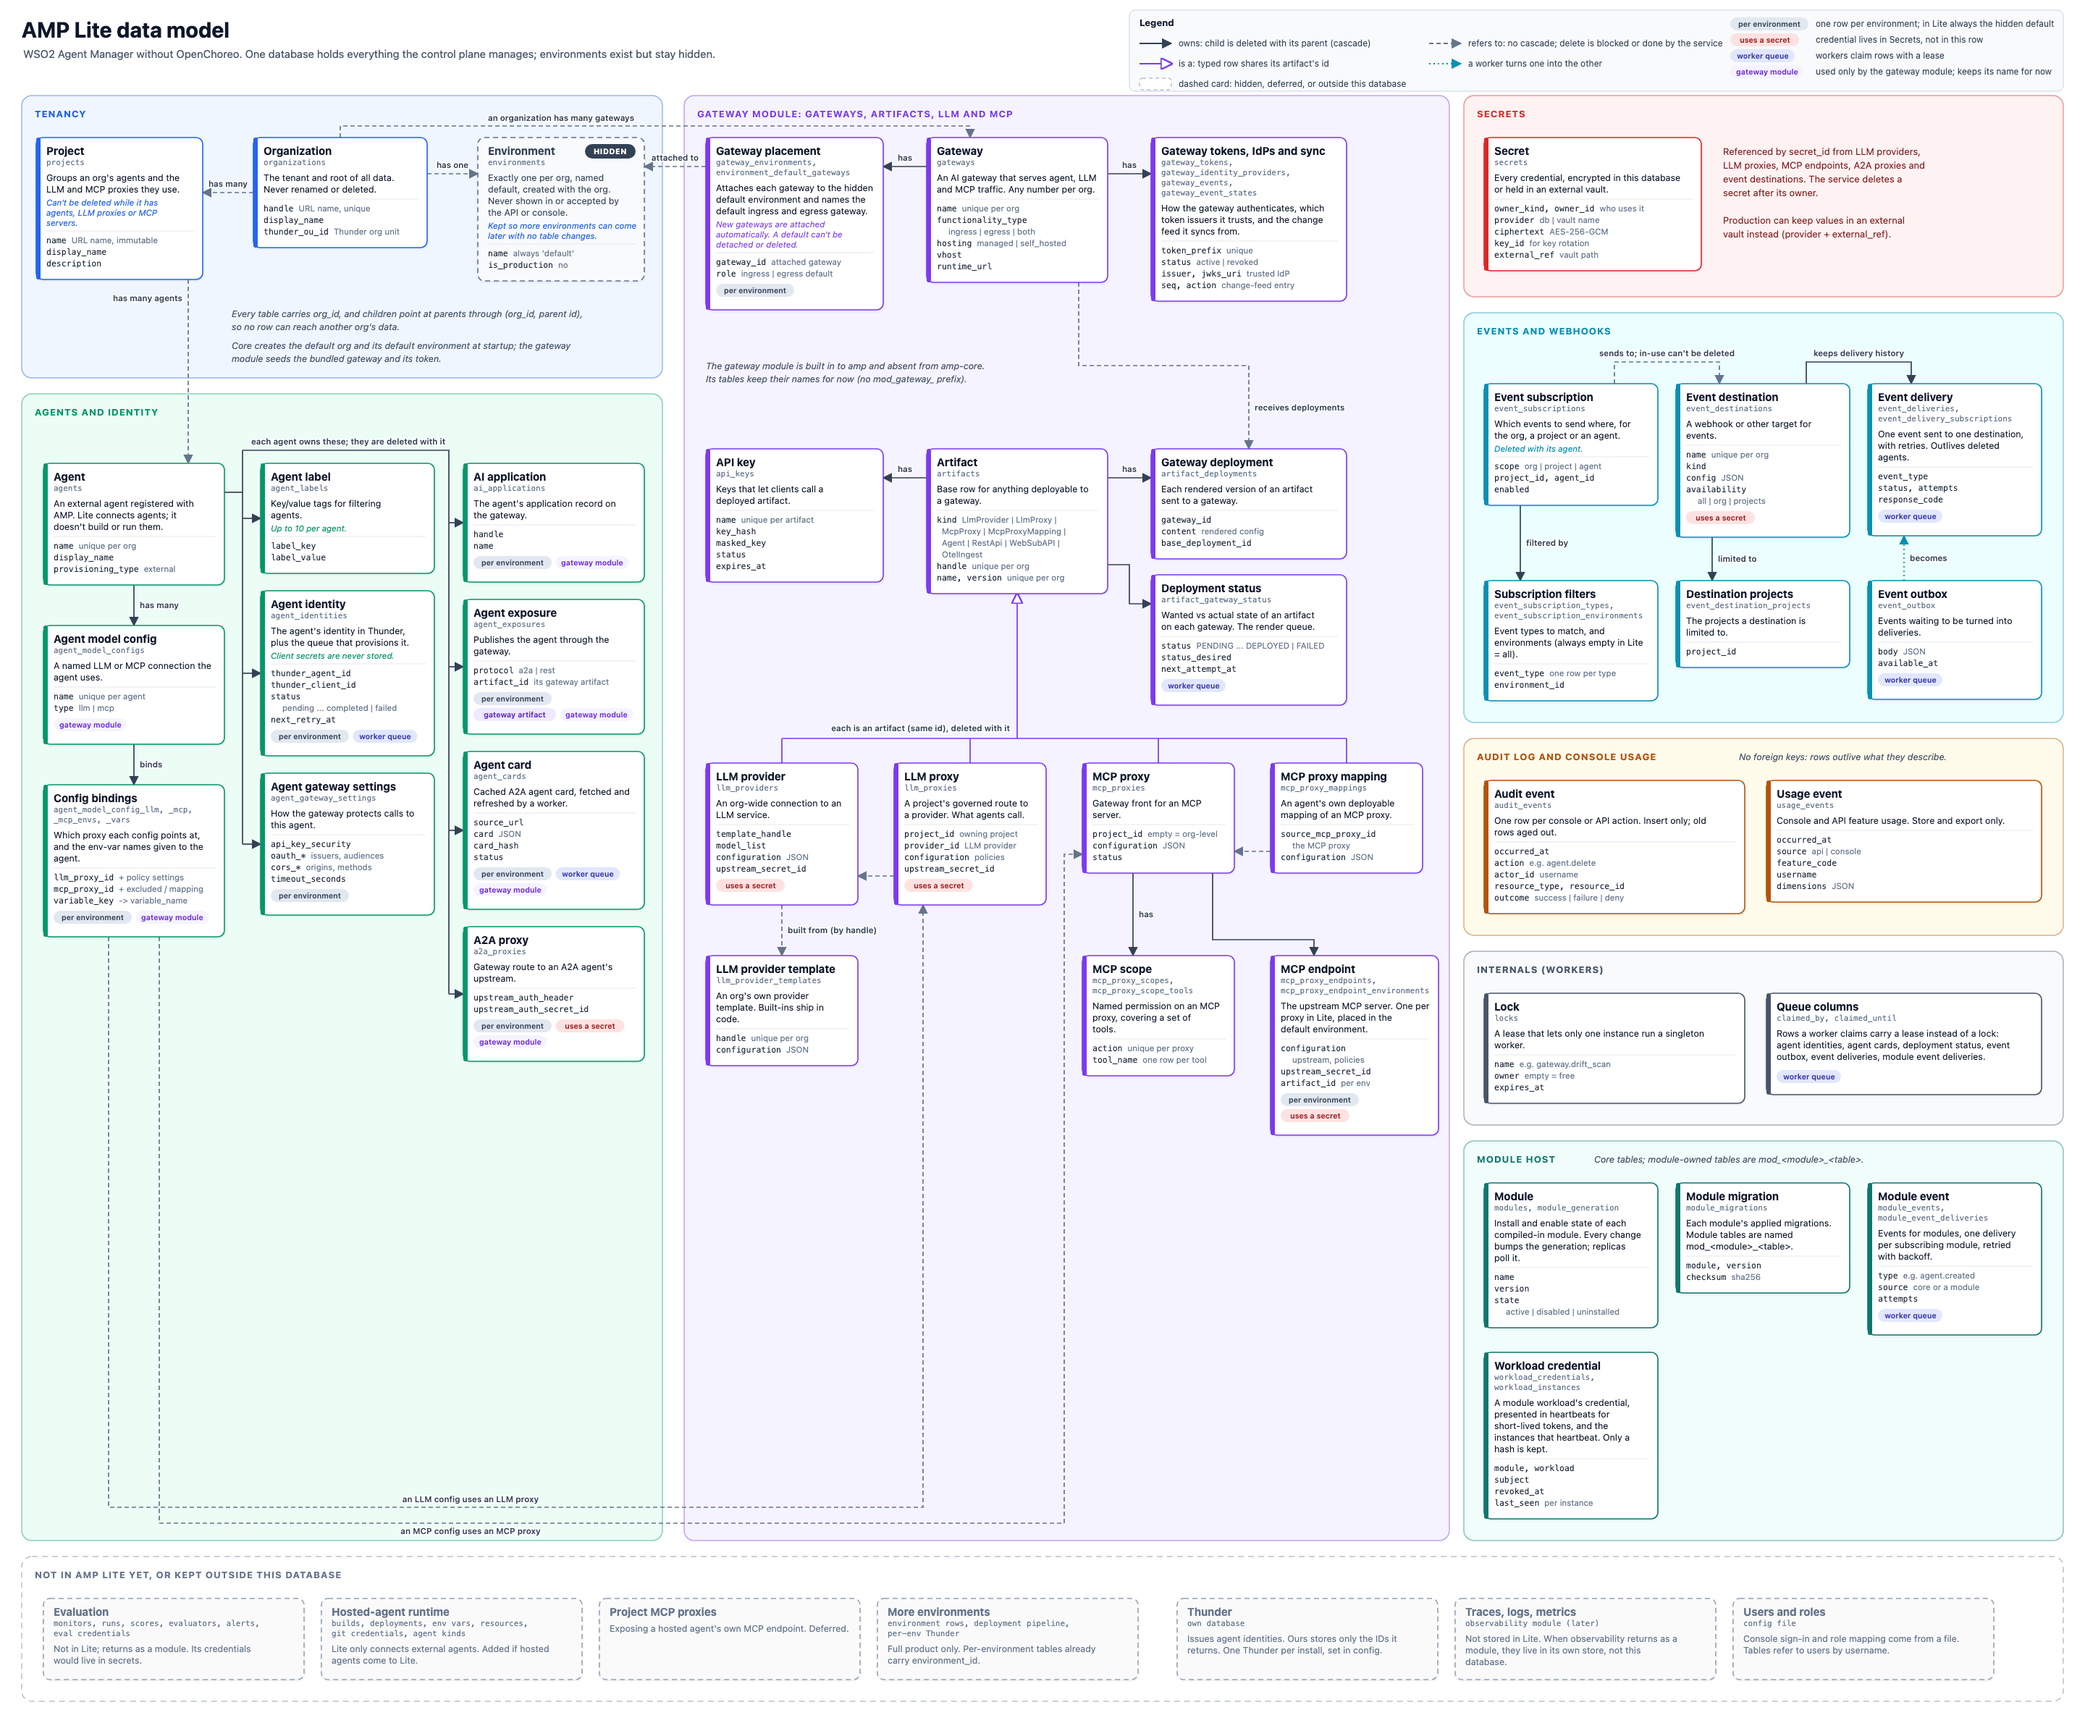
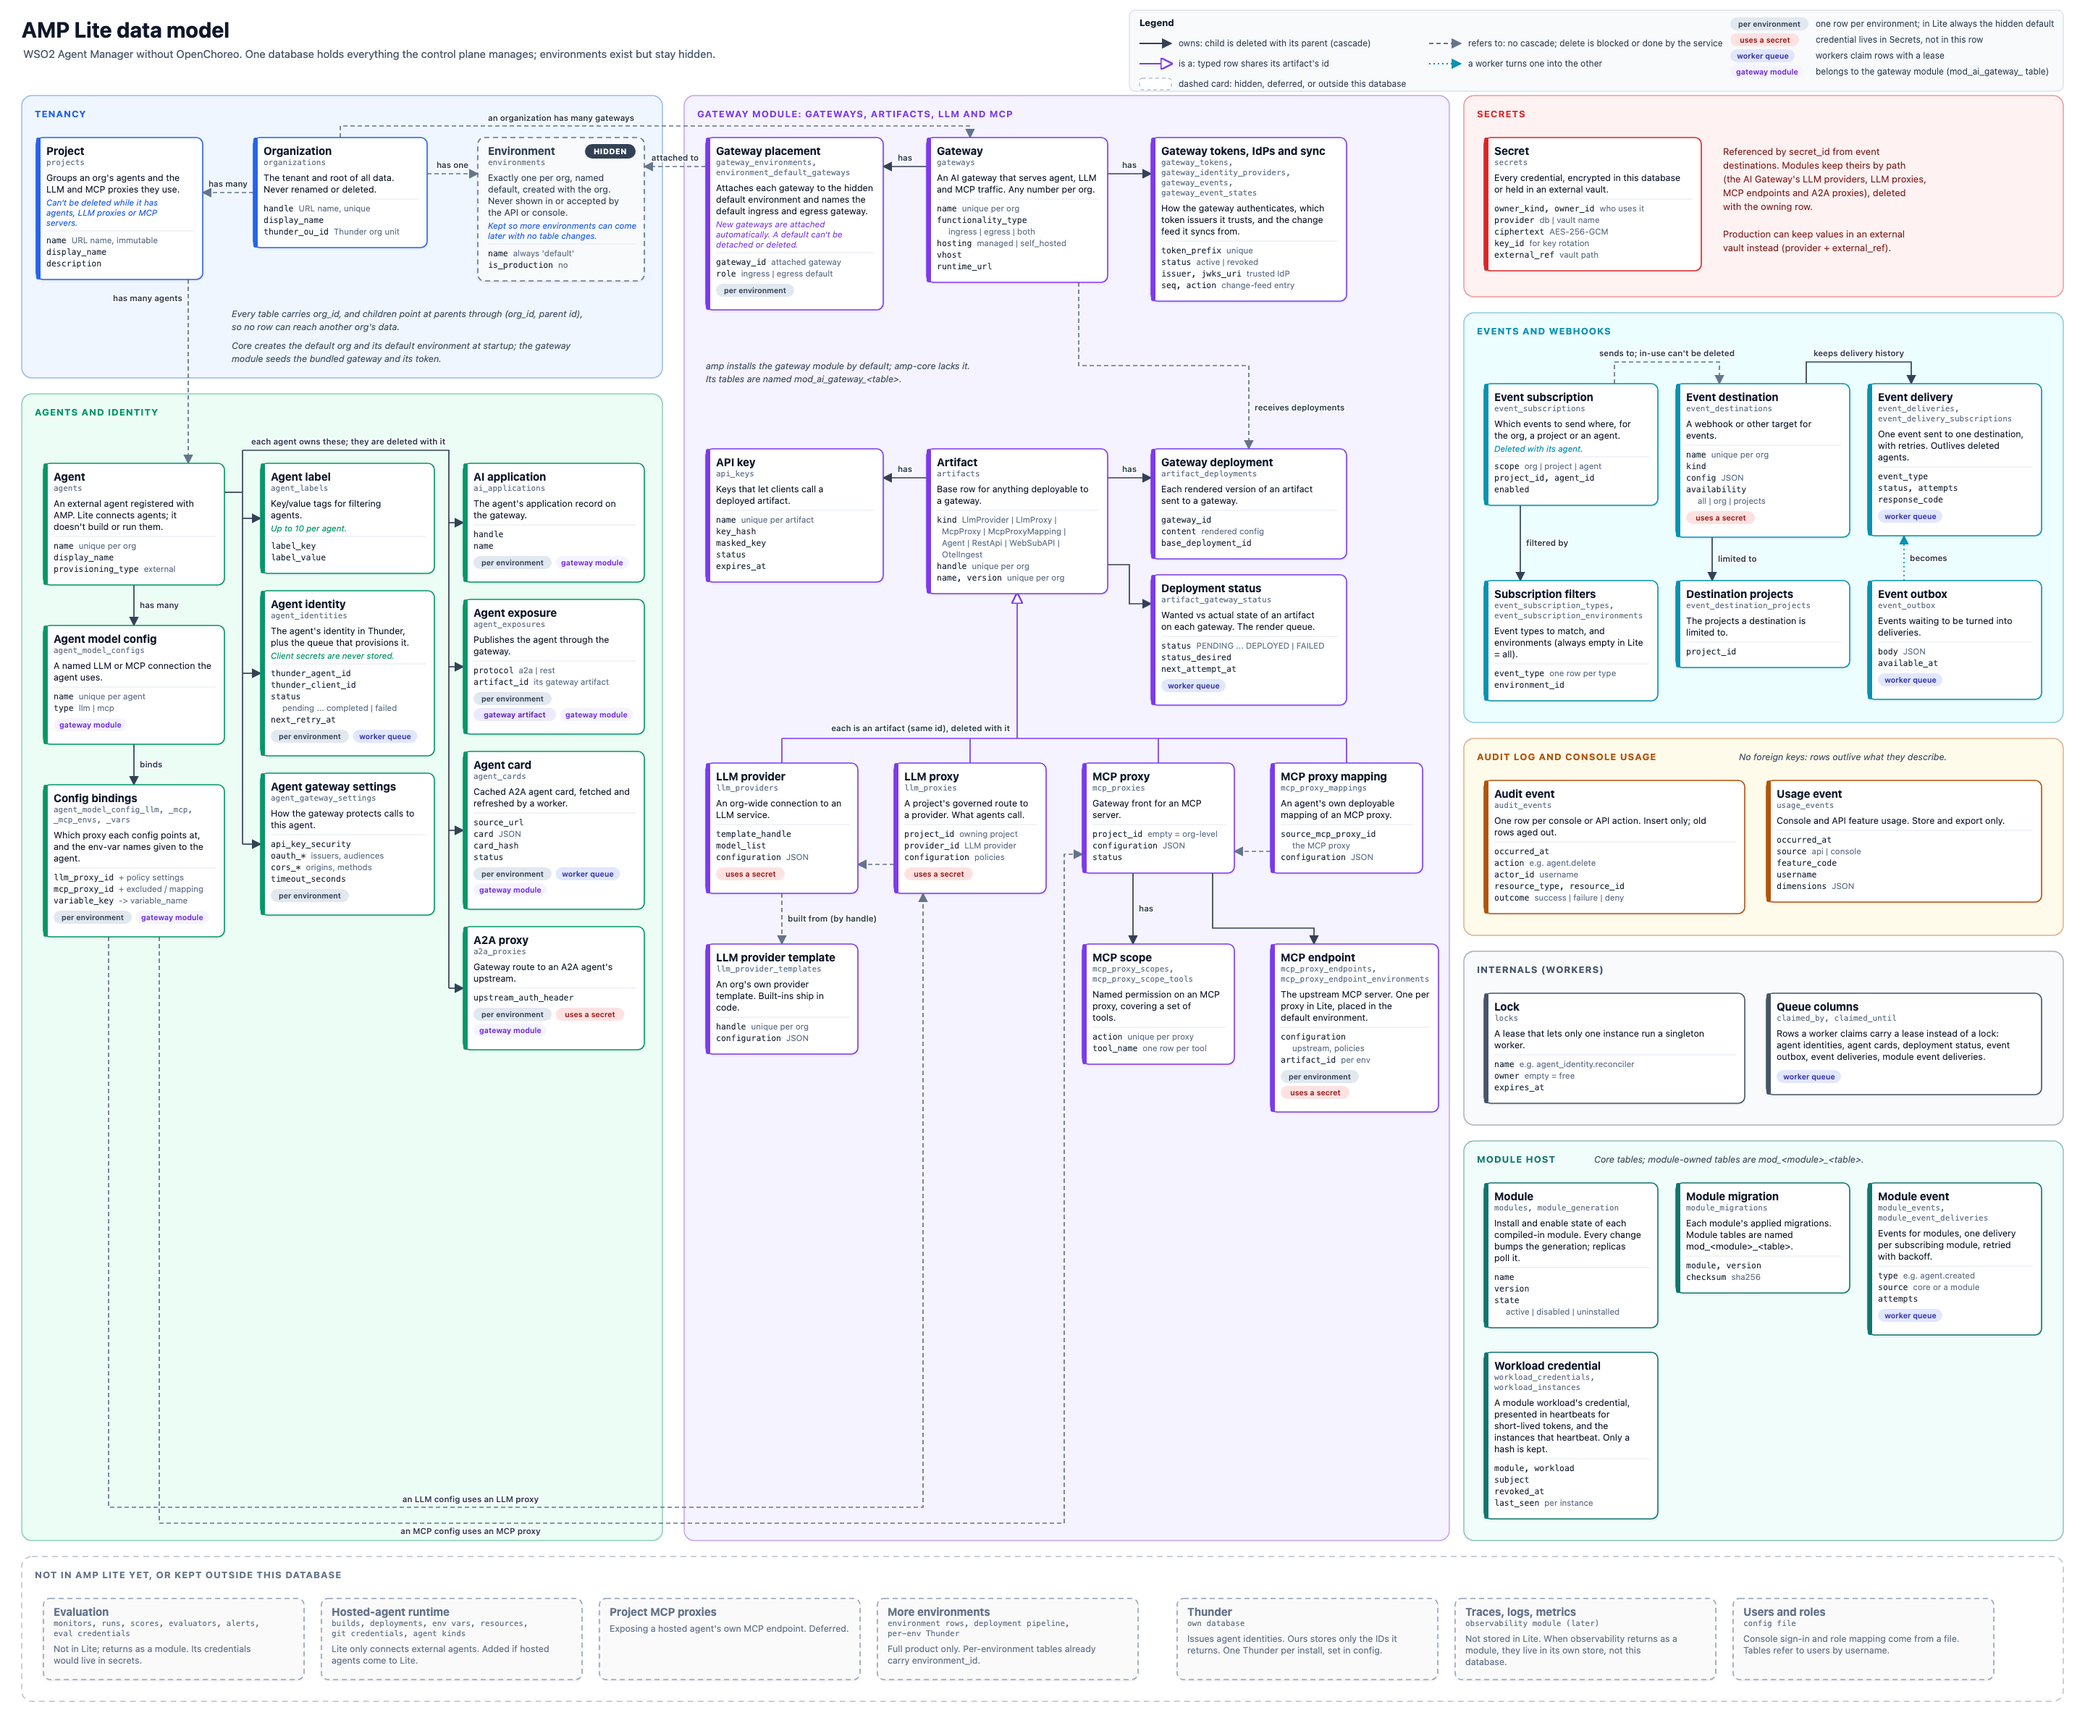
Document the AI Gateway as a default module
The user guide shows how to switch the gateway off and on and what
happens meanwhile, including the bundled controller's restart loop.
database-schema.md describes the default install and what purge
removes. The architecture and data-model diagrams no longer call the
gateway built in, drop the legacy module's 501 routes and the removed
agent.gateway capability, and name the gateway's mod_ai_gateway_
tables.

diff --git a/docs/amp-lite/architecture.html b/docs/amp-lite/architecture.html
@@ -41,13 +41,13 @@ html,body { margin:0; background:#ffffff; }
 <div class="a" style="left:300px;top:330px;width:820px;height:240px;z-index:28;box-sizing:border-box;border:1.5px solid #059669;background:#FFFFFF;border-radius:7.2px"></div>
[1 lines of base64/hex data omitted]
 <div class="a t" style="left:356px;top:344px;width:754px;height:30px;z-index:30;justify-content:center;text-align:left;font-size:14px;color:#0f172a;font-weight:700;font-style:normal"><div>Agent Manager</div></div>
-<div class="a t" style="left:318px;top:380px;width:784px;height:16px;z-index:31;justify-content:flex-start;text-align:left;font-size:11px;color:#059669;font-weight:700;font-style:normal"><div>one image, two distributions · amp = core + built-in modules · amp-core = core only, no AI Gateway</div></div>
+<div class="a t" style="left:318px;top:380px;width:784px;height:16px;z-index:31;justify-content:flex-start;text-align:left;font-size:11px;color:#059669;font-weight:700;font-style:normal"><div>one image, two distributions · amp = core + modules (ai-gateway installed by default) · amp-core = core only, no AI Gateway</div></div>
 <div class="a t" style="left:318px;top:400px;width:784px;height:160px;z-index:32;justify-content:flex-start;text-align:left;font-size:11.5px;color:#475569;font-weight:400;font-style:normal"><div></div></div>
 <div class="a sub" style="left:318px;top:404px;width:190px;height:150px;z-index:33;box-sizing:border-box;border:1px solid #059669;background:#F2FBF7;color:#0f172a"><b>Embedded console</b><br/>served on :9000 with the API<br/>config.js from CONSOLE_* settings<br/>pages from GET /api/v1/ui-manifest</div>
 <div class="a sub" style="left:520px;top:404px;width:270px;height:150px;z-index:34;box-sizing:border-box;border:1px solid #059669;background:#F2FBF7;color:#0f172a"><b>Core</b><br/>REST API and MCP server<br/>orgs, projects, external agents and their agent tokens<br/>RBAC and audit log<br/>at startup: migrates the database and creates the default org</div>
-<div class="a sub" style="left:802px;top:404px;width:300px;height:150px;z-index:35;box-sizing:border-box;border:1px solid #059669;background:#F2FBF7;color:#0f172a"><b>Module host</b><br/>install · enable · disable (amp module, amp.yaml)<br/>routes · hooks · events · capabilities<br/>core calls llm.proxy, mcp.proxy, agent.gateway</div>
-<div class="a sub" style="left:814px;top:476px;width:172px;height:70px;z-index:36;box-sizing:border-box;border:1px solid #4f46e5;background:#F5F5FF;color:#0f172a"><b>gateway</b> · built in<br/>gateways, LLM and MCP proxies; WebSocket :9243</div>
-<div class="a sub" style="left:994px;top:476px;width:96px;height:70px;z-index:37;box-sizing:border-box;border:1px solid #334155;background:#F1F5F9;color:#0f172a"><b>legacy</b><br/>501 routes</div>
+<div class="a sub" style="left:802px;top:404px;width:300px;height:150px;z-index:35;box-sizing:border-box;border:1px solid #059669;background:#F2FBF7;color:#0f172a"><b>Module host</b><br/>install · enable · disable (amp module, amp.yaml)<br/>routes · hooks · events · capabilities<br/>modules provide llm.proxy, mcp.proxy · core provides identity.directory</div>
+<div class="a sub" style="left:814px;top:476px;width:172px;height:70px;z-index:36;box-sizing:border-box;border:1px solid #4f46e5;background:#F5F5FF;color:#0f172a"><b>ai-gateway</b> · module, on by default<br/>gateways, LLM and MCP proxies; WebSocket :9243</div>
+<div class="a sub" style="left:994px;top:476px;width:96px;height:70px;z-index:37;box-sizing:border-box;border:1px solid #334155;background:#F1F5F9;color:#0f172a"><b>legacy</b><br/>leftover permissions</div>
 <div class="a" style="left:300px;top:600px;width:820px;height:135px;z-index:38;box-sizing:border-box;border:1.5px solid #e11d48;background:#FFFFFF;border-radius:4.05px"></div>
[1 lines of base64/hex data omitted]
 <div class="a t" style="left:352px;top:614px;width:758px;height:30px;z-index:40;justify-content:center;text-align:left;font-size:14px;color:#0f172a;font-weight:700;font-style:normal"><div>ThunderID</div></div>

diff --git a/docs/amp-lite/data-model.html b/docs/amp-lite/data-model.html
@@ -63,7 +63,7 @@ svg .ctable { font-family: ui-monospace, SFMono-Regular, Menlo, Consolas, monosp
 <text x="2508" y="81" class="legtext">workers claim rows with a lease</text>
 <rect x="2390" y="90" width="101" height="18" rx="9" fill="#f5f3ff"/>
 <text x="2441" y="103" class="chip" fill="#6d28d9" text-anchor="middle">gateway module</text>
-<text x="2508" y="103" class="legtext">used only by the gateway module; keeps its name for now</text>
+<text x="2508" y="103" class="legtext">belongs to the gateway module (mod_ai_gateway_ table)</text>
 <rect x="1574" y="108" width="44" height="16" rx="4" fill="#ffffff" stroke="#94a3b8" stroke-dasharray="5 4"/>
 <text x="1628" y="120" class="legtext">dashed card: hidden, deferred, or outside this database</text>
 <rect x="30" y="132" width="885" height="390" rx="14" fill="#eff6ff" stroke="#2563eb" stroke-opacity="0.45" stroke-width="1.5"/>
@@ -88,8 +88,8 @@ svg .ctable { font-family: ui-monospace, SFMono-Regular, Menlo, Consolas, monosp
 <text x="320" y="456" class="anote">so no row can reach another org's data.</text>
 <text x="320" y="482" class="anote">Core creates the default org and its default environment at startup; the gateway</text>
 <text x="320" y="500" class="anote">module seeds the bundled gateway and its token.</text>
-<text x="975" y="510" class="anote">The gateway module is built in to amp and absent from amp-core.</text>
-<text x="975" y="528" class="anote">Its tables keep their names for now (no mod_gateway_ prefix).</text>
+<text x="975" y="510" class="anote">amp installs the gateway module by default; amp-core lacks it.</text>
+<text x="975" y="528" class="anote">Its tables are named mod_ai_gateway_&lt;table&gt;.</text>
 <text x="2202" y="1606" class="anote">Core tables; module-owned tables are mod_&lt;module&gt;_&lt;table&gt;.</text>
 <text x="2402" y="1050" class="anote">No foreign keys: rows outlive what they describe.</text>
 <text x="2380" y="214" class="anote2">Referenced by secret_id from event</text>

diff --git a/docs/amp-lite/src/data_model_gen.py b/docs/amp-lite/src/data_model_gen.py
@@ -635,7 +635,7 @@ def render_svg(viewbox=None, width=None):
     for i, (key, desc) in enumerate([("env", "one row per environment; in Lite always the hidden default"),
                                      ("secret", "credential lives in Secrets, not in this row"),
                                      ("queue", "workers claim rows with a lease"),
-                                     ("gwmod", "used only by the gateway module; keeps its name for now")]):
+                                     ("gwmod", "belongs to the gateway module (mod_ai_gateway_ table)")]):
         label, bg, fg = CHIPS[key]
         yy = ly0 + 10 + i * 22
         cw = len(label) * 6.1 + 16
@@ -661,8 +661,8 @@ def render_svg(viewbox=None, width=None):
     for i, ln in enumerate(tnotes):
         out.append(f'<text x="{tb[0] + 290}" y="{tb[3] - 84 + i * 18 + (8 if i >= 2 else 0)}" class="anote">{esc(ln)}</text>')
     gb = area_boxes["gateway"]
-    for i, ln in enumerate(["The gateway module is built in to amp and absent from amp-core.",
-                            "Its tables keep their names for now (no mod_gateway_ prefix)."]):
+    for i, ln in enumerate(["amp installs the gateway module by default; amp-core lacks it.",
+                            "Its tables are named mod_ai_gateway_<table>."]):
         out.append(f'<text x="{gb[0] + 30}" y="{cards["apikeys"].y - 110 + i * 18}" class="anote">{esc(ln)}</text>')
     mb = area_boxes["modules"]
     out.append(f'<text x="{mb[0] + 180}" y="{mb[1] + 30}" class="anote">Core tables; module-owned tables are mod_&lt;module&gt;_&lt;table&gt;.</text>')

diff --git a/docs/amp-lite/src/architecture_gen.py b/docs/amp-lite/src/architecture_gen.py
@@ -102,7 +102,7 @@ text("cp_lbl", 300, 298, 820, 20, "CONTROL PLANE", size=13, color=GREEN, bold=Tr
 
 comp("amapi", 300, 330, 820, 240, GREEN, "Agent Manager",
      "", logos=[IMG["amapi_logo0"]],
-     prod="one image, two distributions · amp = core + built-in modules · amp-core = core only, no AI Gateway",
+     prod="one image, two distributions · amp = core + modules (ai-gateway installed by default) · amp-core = core only, no AI Gateway",
      prod_color=GREEN)
 sub("console", 318, 404, 190, 150,
     "<b>Embedded console</b><br/>served on :9000 with the API<br/>config.js from CONSOLE_* settings<br/>"
@@ -116,13 +116,13 @@ sub("core", 520, 404, 270, 150,
     GREEN, "#F2FBF7")
 sub("modhost", 802, 404, 300, 150,
     "<b>Module host</b><br/>install · enable · disable (amp module, amp.yaml)<br/>routes · hooks · events · capabilities<br/>"
-    "core calls llm.proxy, mcp.proxy, agent.gateway",
+    "modules provide llm.proxy, mcp.proxy · core provides identity.directory",
     GREEN, "#F2FBF7")
 sub("mod_gw", 814, 476, 172, 70,
-    "<b>gateway</b> · built in<br/>gateways, LLM and MCP proxies; WebSocket :9243",
+    "<b>ai-gateway</b> · module, on by default<br/>gateways, LLM and MCP proxies; WebSocket :9243",
     INDIGO, "#F5F5FF")
 sub("mod_legacy", 994, 476, 96, 70,
-    "<b>legacy</b><br/>501 routes",
+    "<b>legacy</b><br/>leftover permissions",
     SLATE, "#F1F5F9")
 comp("thunder", 300, 600, 820, 135, RED, "ThunderID",
      "<b>For people and services:</b> single sign-on (console, CLI, MCP); users, roles and groups<br/>"

diff --git a/docs/user-guide.md b/docs/user-guide.md
@@ -149,6 +149,18 @@ Providers and servers you pick while registering an agent are attached in the ba
 
 The gateway is the `ai-gateway` module. Its API is at `/m/ai-gateway/orgs/{org}/...` (for example `GET /m/ai-gateway/orgs/{org}/llm-providers`), beside the core's `/api/v1`, and its permissions are the `amp:ai-gateway:<resource>.<action>` scopes, such as `amp:ai-gateway:llm-providers.read`.
 
+### Turn the gateway off
+
+The gateway is installed when the stack first starts, and you can switch it off and on without a restart:
+
+```bash
+docker compose exec amp-api /go/bin/amp module disable ai-gateway
+docker compose exec amp-api /go/bin/amp module enable ai-gateway
+docker compose exec amp-api /go/bin/amp module health ai-gateway
+```
+
+While it is off, its console pages, API and scopes are gone, an agent registered with LLM providers or MCP servers is refused, and its data is kept; your choice survives restarts. `amp module uninstall ai-gateway --purge` deletes its data. In this preview the bundled `gateway-controller` container restarts in a loop while the gateway is off, and the gateway runtime keeps serving its last configuration; after `enable` it connects again on its next restart. `amp module health ai-gateway` lists each gateway and whether it is connected.
+
 ## Command line
 
 `amctl` is the command-line client for the Agent Manager API. See [cli](../cli).

diff --git a/docs/amp-lite/database-schema.md b/docs/amp-lite/database-schema.md
@@ -365,7 +365,7 @@ Modules are compiled into the binary (`cmd/amp` links them, `cmd/amp-core` links
 | state | short text (16) | no | CHECK `active`, `disabled` or `uninstalled`. |
 | created_at, updated_at | time | no | |
 
-Built-in modules (`ai-gateway`, `legacy`) are always `active` and can't be disabled. A compiled-in module with no row is available but not installed.
+Built-in modules (today `legacy`) are always `active` and can't be disabled. A compiled-in module with no row is available but not installed; `amp` installs `ai-gateway` at boot while it has no row and no modules list is declared. `amp module uninstall --purge` empties the module's `mod_<name>_*` tables, deletes its rows in `secrets` (owner kind `mod:<name>`), revokes its `workload_credentials` and deletes its row, in one transaction.
 
 ### module_generation
 
